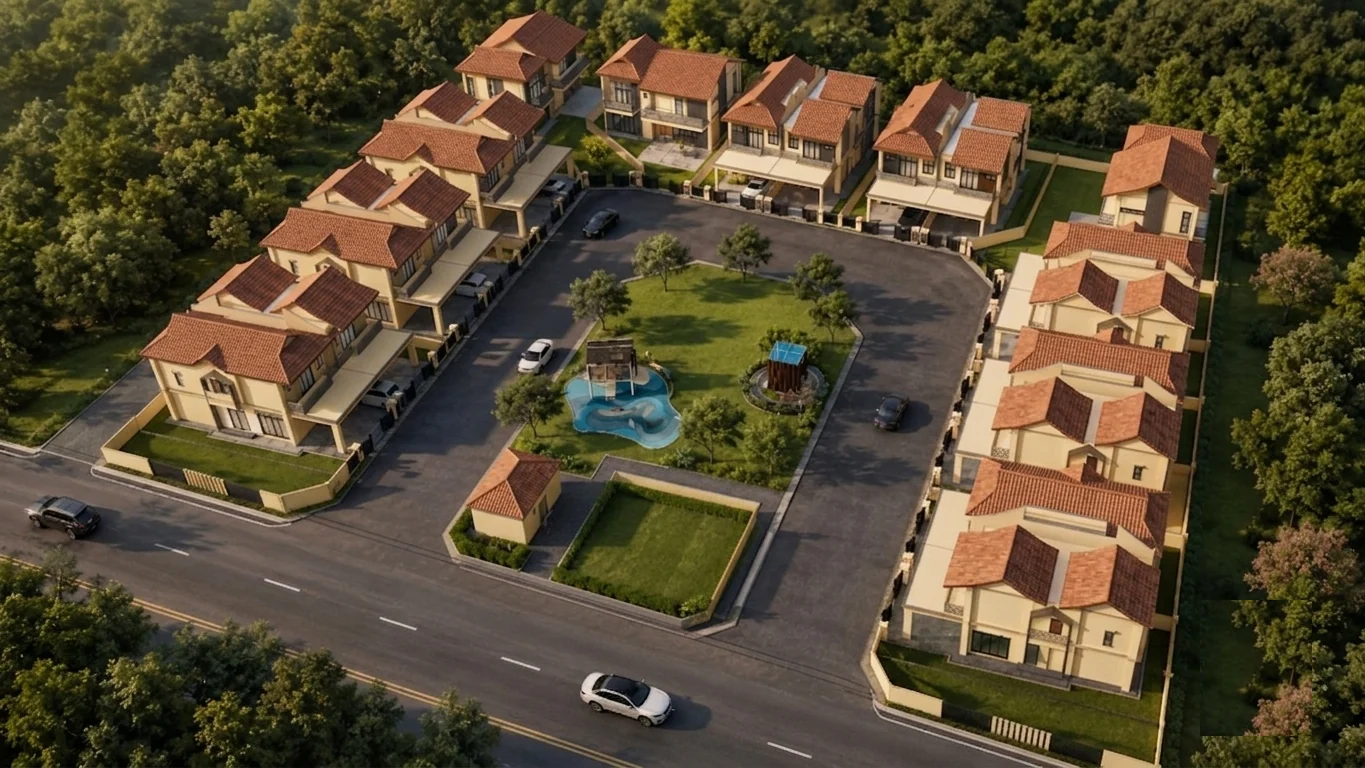
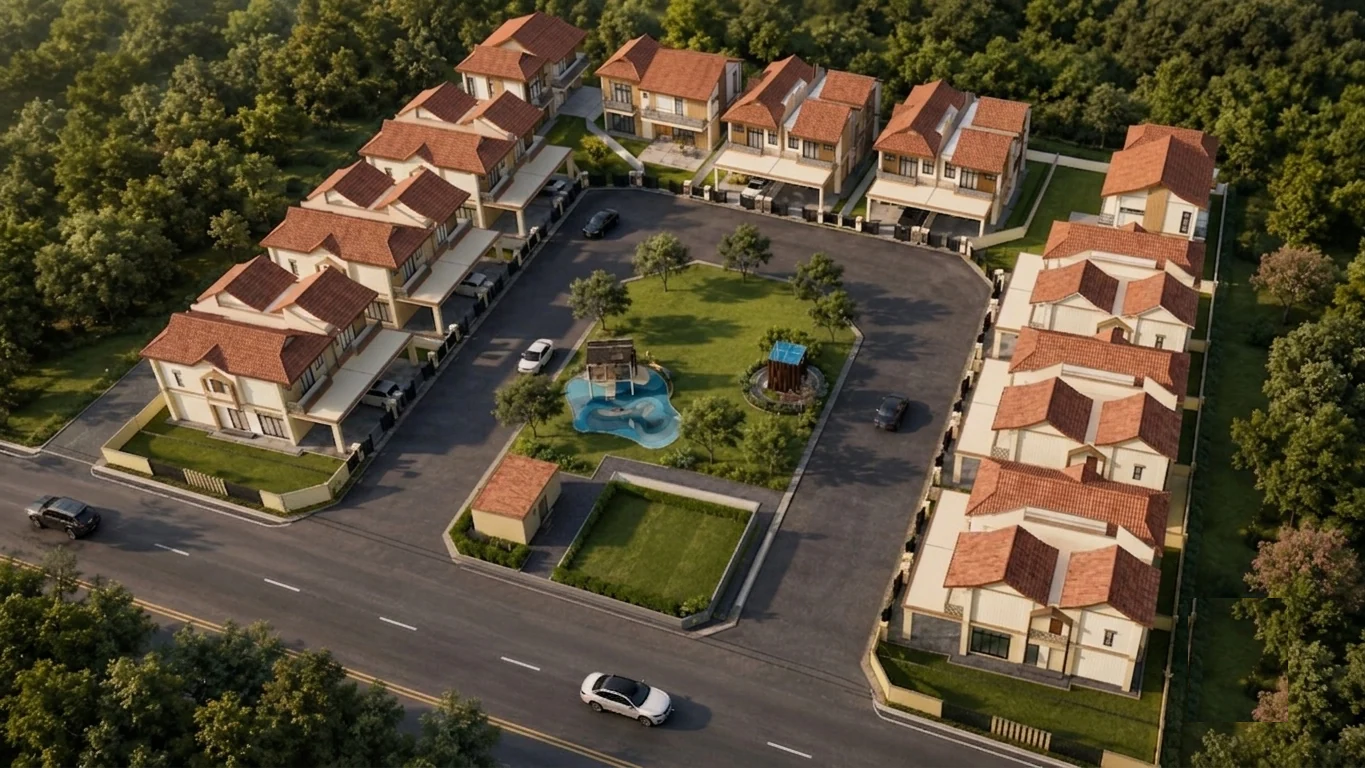
Hero: swap to the alternate golden-hour render (cleaner composition)
Replace the hero aerial with the user's preferred alternate render (same
warm dusk scene, wider/cleaner framing). Gemini watermark cloned out of
the bottom-right lawn. Same filename, cache bumped v1 -> v2. No people.

diff --git a/index.html b/index.html
@@ -46,7 +46,7 @@
 <meta name="twitter:image:alt" content="Panthera Bertam, bungalow artist's impression">
 
 <!-- Performance: preload critical above-the-fold assets -->
-<link rel="preload" as="image" href="assets/hero-aerial-dusk.webp?v=1" fetchpriority="high">
+<link rel="preload" as="image" href="assets/hero-aerial-dusk.webp?v=2" fetchpriority="high">
 <link rel="preload" as="image" href="assets/panthera-logo-full.png">
 
 <!-- Fonts -->
@@ -303,7 +303,7 @@
 <!-- ─── HERO ──────────────────────────────────── -->
 <section class="hero hero--cinematic" data-screen-label="01 Hero">
   <figure class="hero-bg">
-    <img src="assets/hero-aerial-dusk.webp?v=1" width="1365" height="768" alt="Aerial view of Panthera Bertam at golden hour, homes around the shared central green, artist's impression" fetchpriority="high">
+    <img src="assets/hero-aerial-dusk.webp?v=2" width="1365" height="768" alt="Aerial view of Panthera Bertam at golden hour, homes around the shared central green, artist's impression" fetchpriority="high">
   </figure>
   <div class="hero-scrim" aria-hidden="true"></div>
   <span class="hero-cap mono" data-i18n="site.aerial.l">Artist's impression · aerial view from north</span>